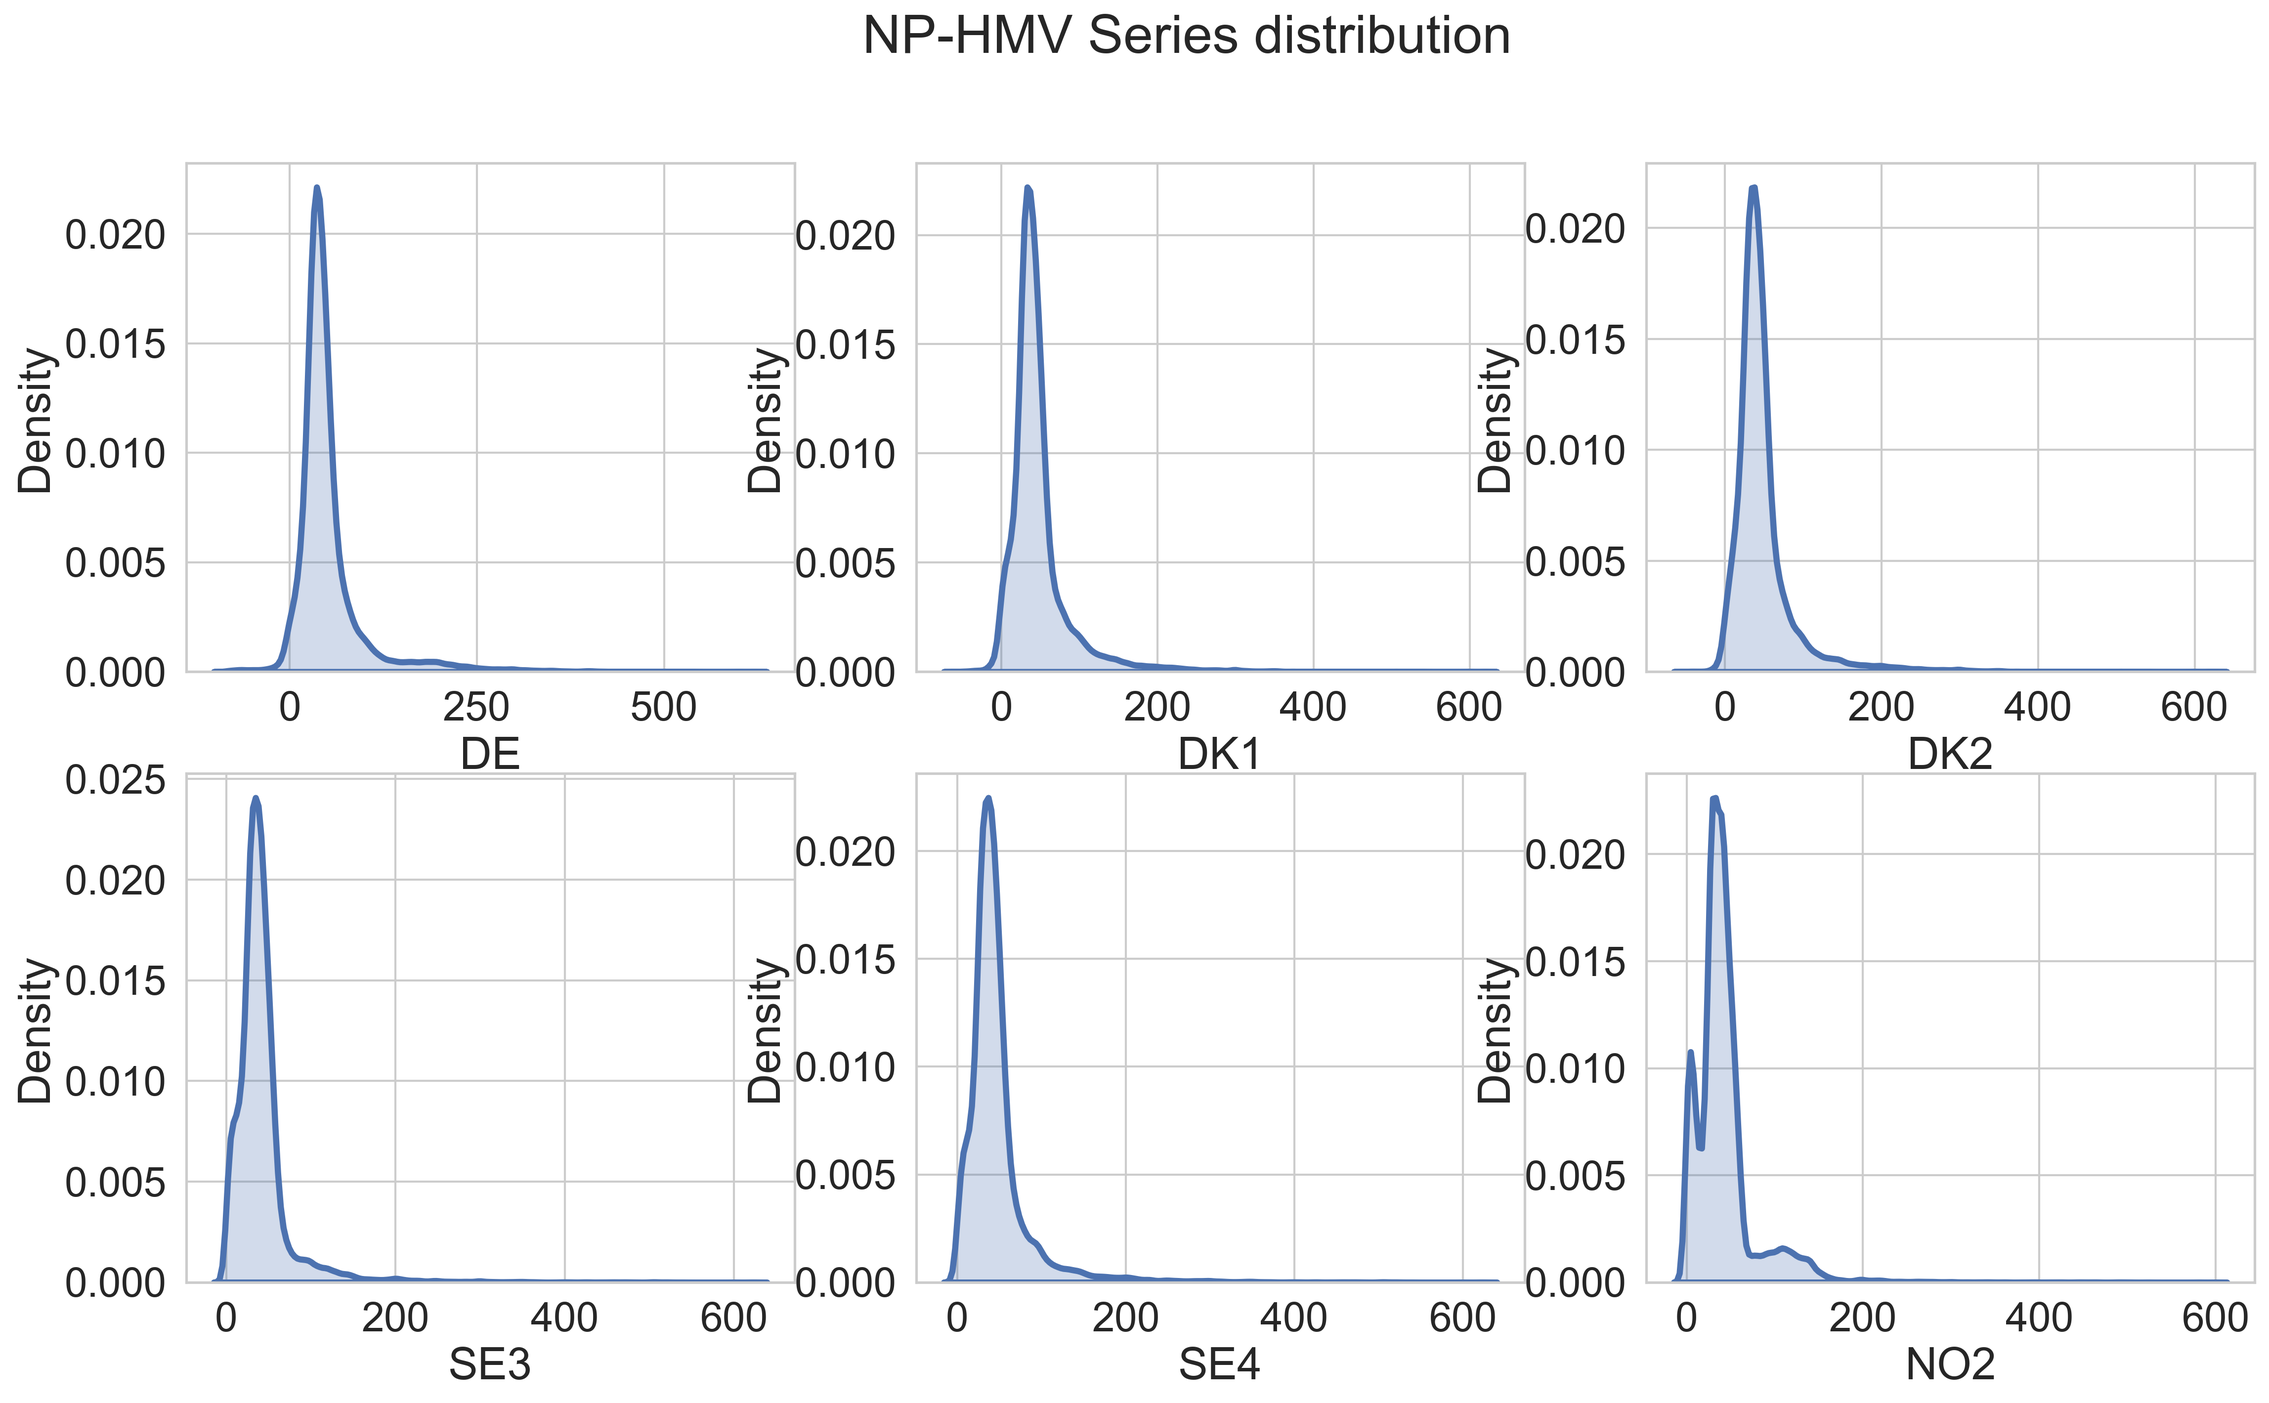
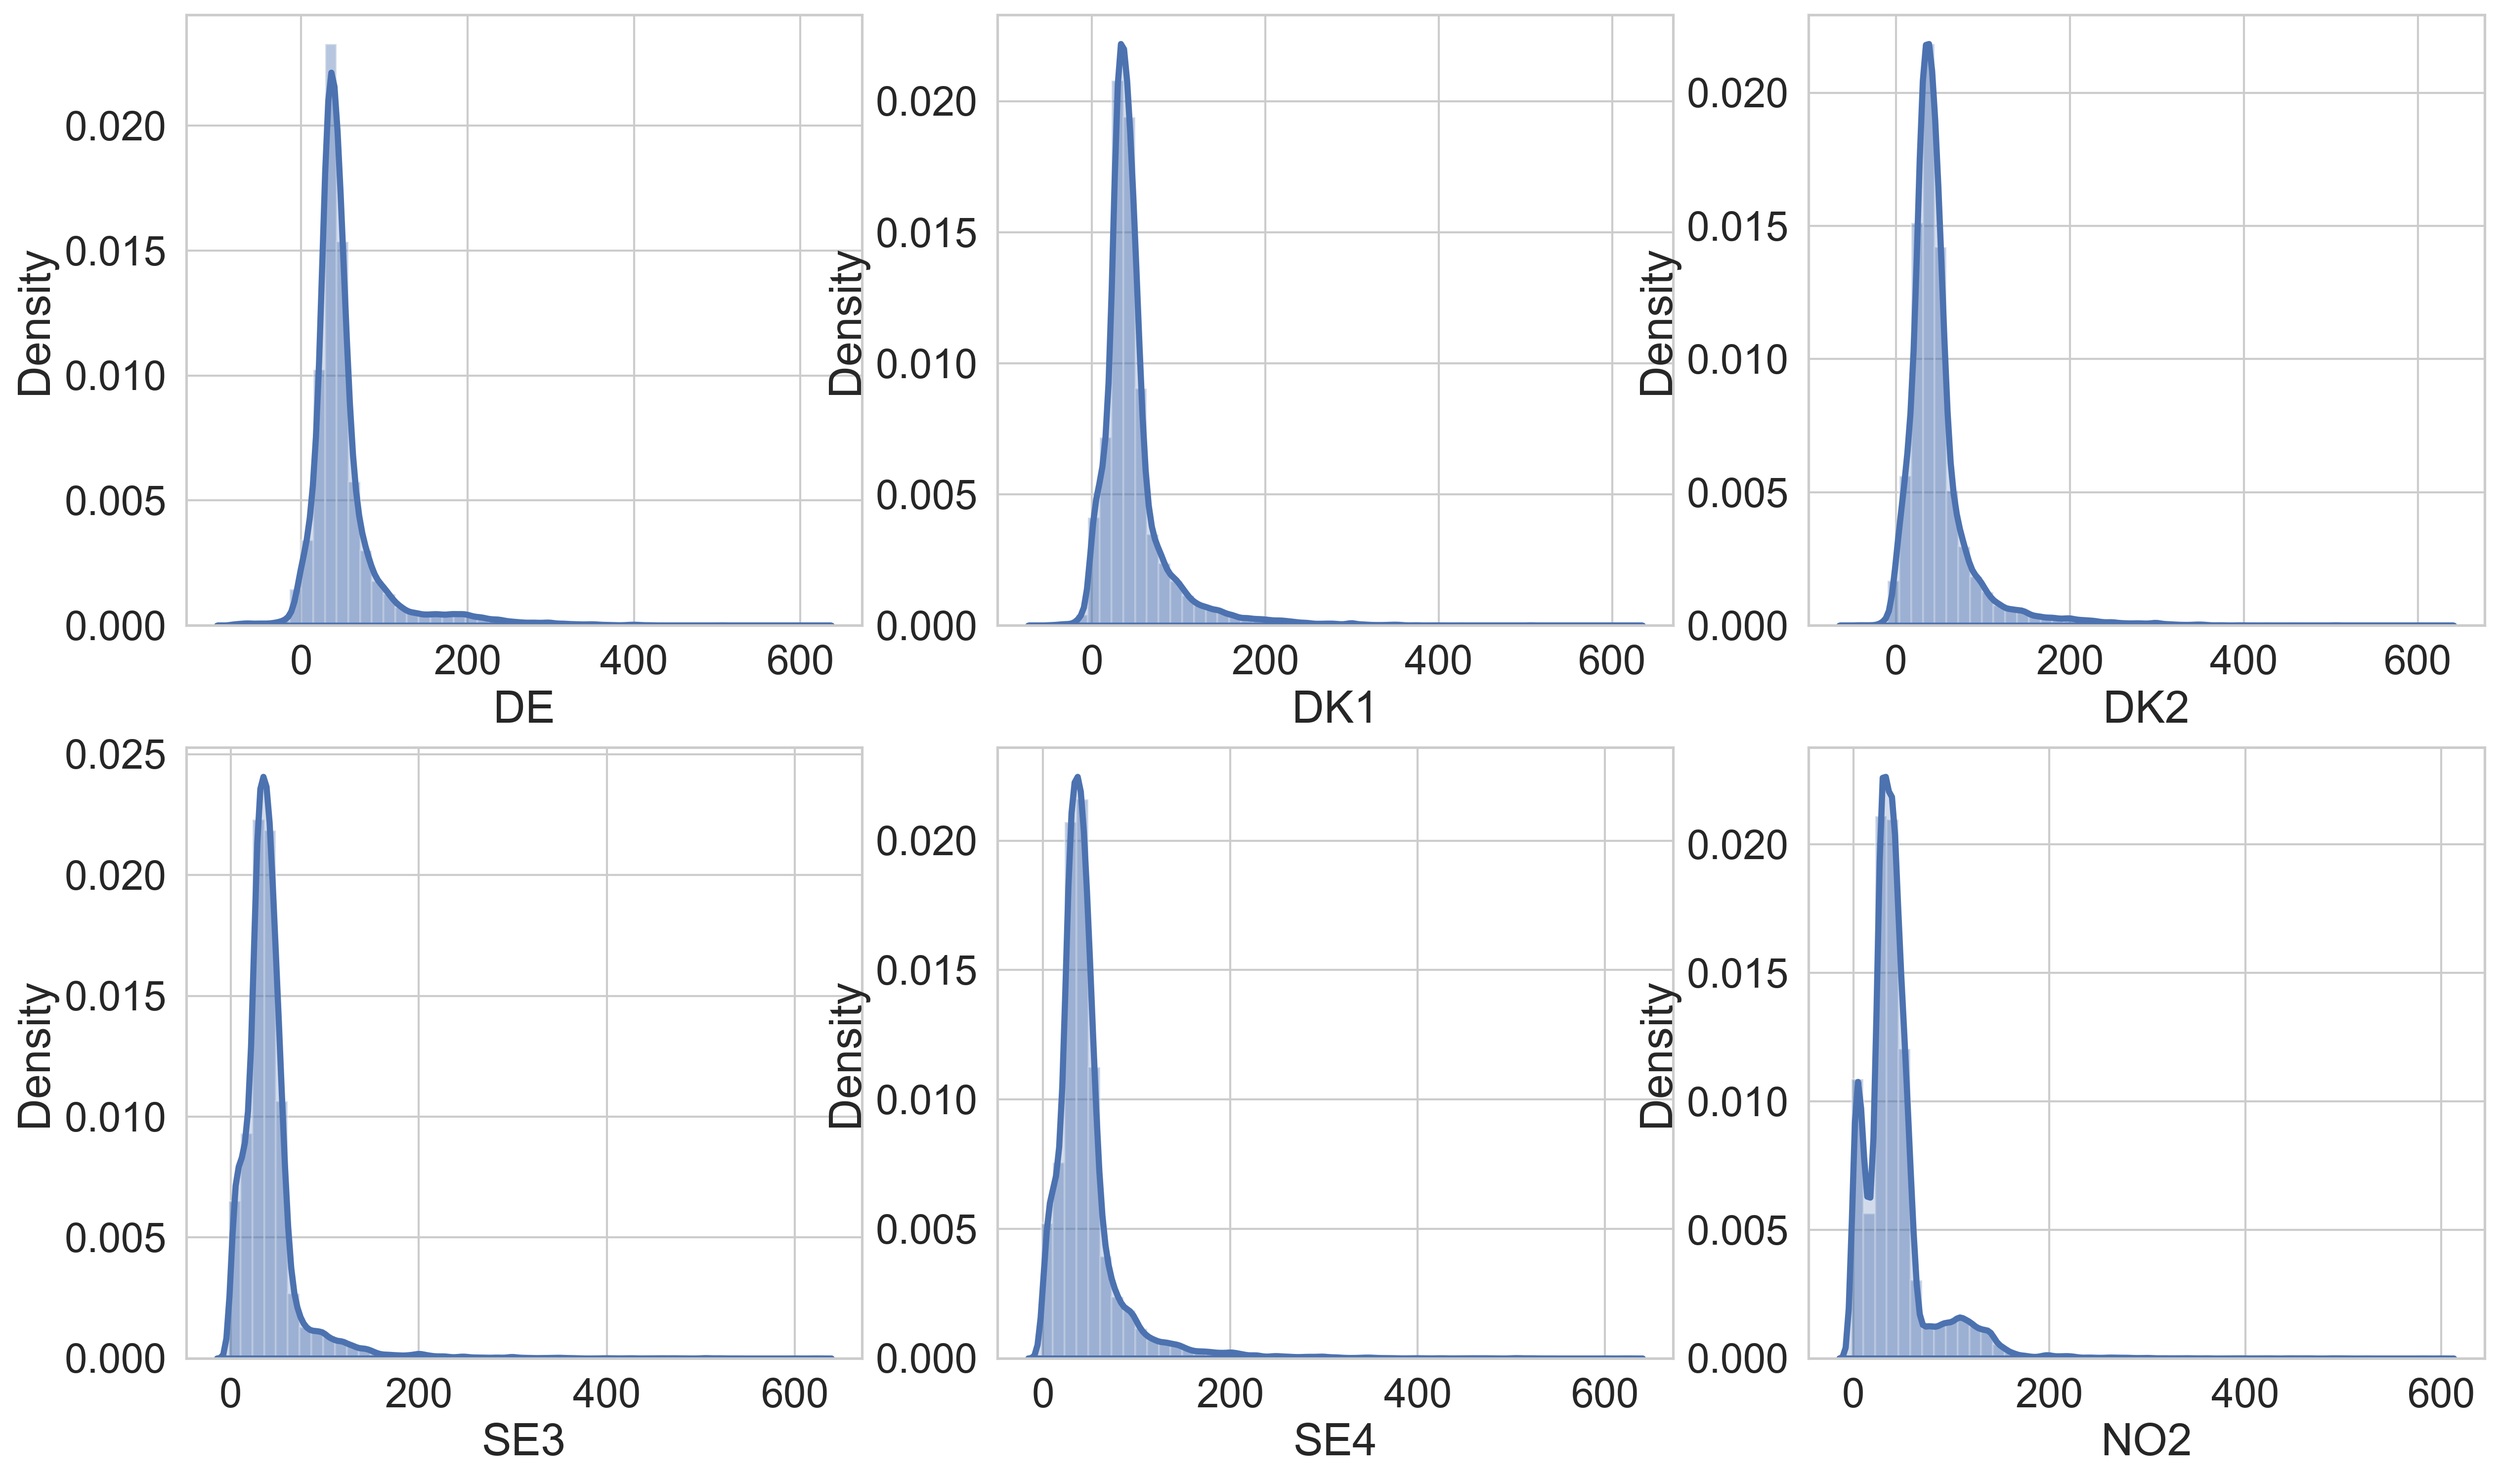
Diebold-Mariano test

diff --git a/Python files/DIebold-mariano-test.py b/Python files/DIebold-mariano-test.py
@@ -10,7 +10,7 @@ import matplotlib.pyplot as plt
 from matplotlib import rc
 from pandas.plotting import register_matplotlib_converters
 
-mpl.rcParams['figure.figsize'] = (16, 6)
+mpl.rcParams['figure.figsize'] = (8, 6)
 mpl.rcParams['axes.grid'] = False
 mpl.rcParams['figure.dpi'] = 300
 # set styles
@@ -22,45 +22,110 @@ register_matplotlib_converters()
 sns.set(style='whitegrid', palette='hls', font_scale=1.4)
 
 # set plotting parameters
-rcParams['figure.figsize'] = 15, 20
+rcParams['figure.figsize'] = 8, 6
 rcParams['font.family'] = "sans-serif"
 rc('lines', linewidth=2, linestyle='-')
 # rcParams['text.usete'] = True
 
 #%% import data
-computing_time = pd.read_csv('C:/Users/timon/Documents/GitHub/EPF-Europe/Data/Time-compute-overall.csv').iloc[:,1:]
+DE = pd.read_csv('test_eval_DE.csv')
+DK1 = pd.read_csv('test_eval_DK1.csv')
+DK2 = pd.read_csv('test_eval_DK2.csv')
+NO2 = pd.read_csv('test_eval_NO2.csv')
+SE3 = pd.read_csv('test_eval_SE3.csv')
+SE4 = pd.read_csv('test_eval_SE4.csv')
 
-#%% plotting 
-#%% import libraries
-import pandas as pd
-import numpy as np 
-import seaborn as sns
+#%% import Diebold mariano
+from epftoolbox.evaluation import DM, plot_multivariate_DM_test
 
-#%% Setup plotting environment
-from pylab import rcParams
-import matplotlib as mpl
-import matplotlib.pyplot as plt
-from matplotlib import rc
-from pandas.plotting import register_matplotlib_converters
+#%% Modify Heatmap
+def plot_multivariate_DM_test(real_price, forecasts, norm=1, title='DM test', savefig=False, path=''):
+    p_values = pd.DataFrame(index=forecasts.columns, columns=forecasts.columns) 
 
-mpl.rcParams['figure.figsize'] = (16, 6)
-mpl.rcParams['axes.grid'] = False
-mpl.rcParams['figure.dpi'] = 300
-# set styles
+    for model1 in forecasts.columns:
+        for model2 in forecasts.columns:
+            # For the diagonal elemnts representing comparing the same model we directly set a 
+            # p-value of 1
+            if model1 == model2:
+                p_values.loc[model1, model2] = 1
+            else:
+                p_values.loc[model1, model2] = DM(p_real=real_price.values.reshape(-1, 24), 
+                                                  p_pred_1=forecasts.loc[:, model1].values.reshape(-1, 24), 
+                                                  p_pred_2=forecasts.loc[:, model2].values.reshape(-1, 24), 
+                                                  norm=norm, version='multivariate')
+    
+    # Defining color map
+    red = np.concatenate([np.linspace(0, 1, 50), np.linspace(1, 0.5, 50)[1:], [0]])
+    green = np.concatenate([np.linspace(0.5, 1, 50), np.zeros(50)])
+    blue = np.zeros(100)
+    rgb_color_map = np.concatenate([red.reshape(-1, 1), green.reshape(-1, 1), 
+                                    blue.reshape(-1, 1)], axis=1)
+    rgb_color_map = mpl.colors.ListedColormap(rgb_color_map)
+    
+    # Generating figure
+    plt.imshow(p_values.astype(float).values, cmap=rgb_color_map, vmin=0, vmax=0.1)
+    plt.xticks(range(len(forecasts.columns)), forecasts.columns, rotation=90.)
+    plt.yticks(range(len(forecasts.columns)), forecasts.columns)
+    plt.plot(range(p_values.shape[0]), range(p_values.shape[0]), 'wx')
+    plt.colorbar()
+    plt.title(title)
+    plt.tight_layout()
+    
+    if savefig:
+        plt.savefig(title + '.png', dpi=300)
+        plt.savefig(title + '.eps')
+    
+    plt.show()
 
-# set seaborn style
-register_matplotlib_converters()
+#%% DE Diebold-Mariano
+real_price_DE = DE.loc[:, ['DE']]
+forecasts_DE = DE.loc[:, ['AR', 'ARIMA', 'SARIMA', 'XGBoost', 'SVR', 'LSTM', 'GRU']]
 
-# set seaborn style
-sns.set(style='whitegrid', palette='hls', font_scale=1.4)
+plot_multivariate_DM_test(real_price=real_price_DE, forecasts=forecasts_DE, title='DM Test DE')
 
-# set plotting parameters
-rcParams['figure.figsize'] = 15, 20
-rcParams['font.family'] = "sans-serif"
-rc('lines', linewidth=2, linestyle='-')
-# rcParams['text.usete'] = True
+#%% DK1 Diebold-Mariano
+real_price_DK1 = DK1.loc[:, ['DK1']]
+forecasts_DK1 = DK1.loc[:, ['AR', 'ARIMA', 'SARIMA', 'XGBoost', 'SVR', 'LSTM', 'GRU']]
 
-#%% import data
-computing_time = pd.read_csv('C:/Users/timon/Documents/GitHub/EPF-Europe/Data/Time-compute-overall.csv').iloc[:,1:]
+plot_multivariate_DM_test(real_price=real_price_DK1, forecasts=forecasts_DK1, title='DM Test DK1')
 
-#%%
+#%% DK2 Diebold-Mariano
+real_price_DK2 = DK2.loc[:, ['DK2']]
+forecasts_DK2 = DK2.loc[:, ['AR', 'ARIMA', 'SARIMA', 'XGBoost', 'SVR', 'LSTM', 'GRU']]
+
+plot_multivariate_DM_test(real_price=real_price_DK2, forecasts=forecasts_DK2, title='DM Test DK2')
+
+#%% NO2 Diebold-Mariano
+real_price_NO2 = NO2.loc[:, ['NO2']]
+forecasts_NO2 = NO2.loc[:, ['AR', 'ARIMA', 'SARIMA', 'XGBoost', 'SVR', 'LSTM', 'GRU']]
+
+plot_multivariate_DM_test(real_price=real_price_NO2, forecasts=forecasts_NO2, title='DM Test NO2')
+
+#%% SE3 Diebold-Mariano
+real_price_SE3 = SE3.loc[:, ['SE3']]
+forecasts_SE3 = SE3.loc[:, ['AR', 'ARIMA', 'SARIMA', 'XGBoost', 'SVR', 'LSTM', 'GRU']]
+
+plot_multivariate_DM_test(real_price=real_price_SE3, forecasts=forecasts_SE3, title='DM Test SE3')
+
+#%% SE4 Diebold-Mariano
+real_price_SE4 = SE4.loc[:, ['SE4']]
+forecasts_SE4 = SE4.loc[:, ['AR', 'ARIMA', 'SARIMA', 'XGBoost', 'SVR', 'LSTM', 'GRU']]
+
+plot_multivariate_DM_test(real_price=real_price_SE4, forecasts=forecasts_SE4, title='DM Test SE4')
+
+#%% subplot all Diebold Mariano tests
+fig, axs = plt.subplots(2, 3)
+axs[0, 0].plot_multivariate_DM_test(real_price=real_price_DE, forecasts=forecasts_DE, title='DM Test DE')
+axs[1, 0].plot_multivariate_DM_test(real_price=real_price_DK1, forecasts=forecasts_DK1, title='DM Test DK1')
+axs[0, 1].plot_multivariate_DM_test(real_price=real_price_DK2, forecasts=forecasts_DK2, title='DM Test DK2')
+axs[1, 1].plot_multivariate_DM_test(real_price=real_price_NO2, forecasts=forecasts_NO2, title='DM Test NO2')
+axs[0, 2].plot_multivariate_DM_test(real_price=real_price_SE3, forecasts=forecasts_SE3, title='DM Test SE3')
+axs[1, 2].plot_multivariate_DM_test(real_price=real_price_SE4, forecasts=forecasts_SE4, title='DM Test SE4')
+fig.tight_layout()
+
+#%% subplot all Diebold Mariano tests
+fig, axs = plt.subplots(1, 2)
+ax1 = plot_multivariate_DM_test(real_price=real_price_DE, forecasts=forecasts_DE, title='DM Test DE')
+ax2 = plot_multivariate_DM_test(real_price=real_price_DK1, forecasts=forecasts_DK1, title='DM Test DK1')
+
+fig.tight_layout()

diff --git a/Data/data-descriptive.py b/Data/data-descriptive.py
@@ -31,32 +31,30 @@ HMV = pd.read_csv('NP-HMV.csv', index_col='HourDK', parse_dates=True)
 
 #%% print distribution plots HMV
 # fig, axes = plt.subplots(2)
-fig, axes = plt.subplots(2, 3, figsize=(18, 10))
-
-fig.suptitle('NP-HMV Series distribution')
+fig, axes = plt.subplots(2, 3, figsize=(20,12))
 
 
-sns.distplot(HMV['DE'], hist = False, kde = True,
+sns.distplot(HMV['DE'], hist = True, kde = True,
                  kde_kws = {'shade': True, 'linewidth': 3}, 
                  ax = axes[0,0]
                  )
-sns.distplot(HMV['DK1'], hist = False, kde = True,
+sns.distplot(HMV['DK1'], hist = True, kde = True,
                  kde_kws = {'shade': True, 'linewidth': 3}, 
                  ax = axes[0,1]
                  )
-sns.distplot(HMV['DK2'], hist = False, kde = True,
+sns.distplot(HMV['DK2'], hist = True, kde = True,
                  kde_kws = {'shade': True, 'linewidth': 3}, 
                  ax = axes[0,2]
                  )
-sns.distplot(HMV['SE3'], hist = False, kde = True,
+sns.distplot(HMV['SE3'], hist = True, kde = True,
                  kde_kws = {'shade': True, 'linewidth': 3}, 
                  ax = axes[1,0]
                  )
-sns.distplot(HMV['SE4'], hist = False, kde = True,
+sns.distplot(HMV['SE4'], hist = True, kde = True,
                  kde_kws = {'shade': True, 'linewidth': 3}, 
                  ax = axes[1,1]
                  )
-sns.distplot(HMV['NO2'], hist = False, kde = True,
+sns.distplot(HMV['NO2'], hist = True, kde = True,
                  kde_kws = {'shade': True, 'linewidth': 3}, 
                  ax = axes[1,2]
                  )
@@ -99,6 +97,9 @@ sns.distplot(LMV['NO2'], hist = False, kde = True,
 print("LMV descriptive statistics")
 pd.options.display.max_columns = LMV.shape[1]
 print(round(LMV.describe(include='all'),2))
+
+#%% reduce NP_HMV series
+HMV = HMV['2021-03-01':'2022-03-01']
 
 #%% get descriptive statistics for NP_HMV
 print("HMV descriptive statistics")

diff --git a/Data Visualisation/Elprice-introduction.py b/Data Visualisation/Elprice-introduction.py
@@ -9,7 +9,7 @@ import matplotlib.pyplot as plt
 from matplotlib import rc
 from pandas.plotting import register_matplotlib_converters
 
-mpl.rcParams['figure.figsize'] = (8, 6)
+mpl.rcParams['figure.figsize'] = (20, 10)
 mpl.rcParams['axes.grid'] = False
 mpl.rcParams['figure.dpi'] = 300
 # set styles
@@ -18,10 +18,10 @@ mpl.rcParams['figure.dpi'] = 300
 register_matplotlib_converters()
 
 # set seaborn style
-sns.set(style='whitegrid', palette='deep', font_scale=1.8)
+sns.set(style='whitegrid', palette='deep', font_scale=2)
 
 # set plotting parameters
-rcParams['figure.figsize'] = 20, 12  
+rcParams['figure.figsize'] = 15, 20 
 rcParams['font.family'] = "sans-serif"
 # rcParams['text.usetex'] = True
 
@@ -29,10 +29,10 @@ rcParams['font.family'] = "sans-serif"
 df = pd.read_csv('Elprices.csv', index_col='HourDK', parse_dates=True) 
 
 #%% plot only few series 
-df[['DK1', 'NO2', 'SE3']].plot(linewidth = 1, 
-                               xlabel = 'Year', 
-                               title="European bidding areas", 
-                               subplots=True, color = 'tab:blue')
+df['DK1'].plot(linewidth = 1, 
+                legend = True,     
+                xlabel = 'Year', 
+                subplots=True, color = 'tab:blue')
 
 # resample by Month
 # df['DK1'].resample('D').sum().plot(linewidth = 0.5, xlabel = 'Year')
